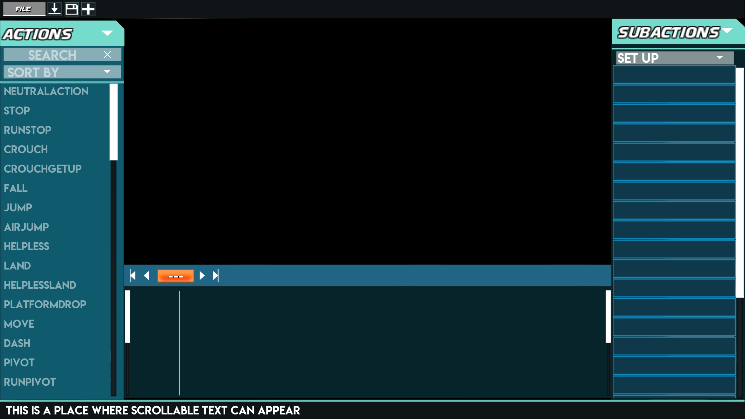
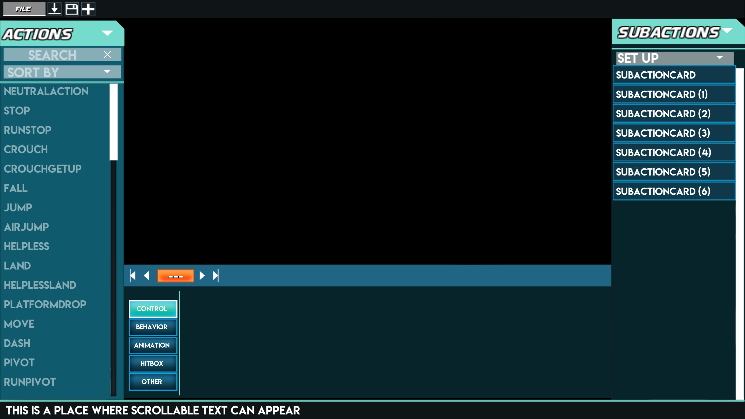
Added property drawers for SubactionData

diff --git a/Assets/Engine/subactions/newSubaction/SubactionData.cs b/Assets/Engine/subactions/newSubaction/SubactionData.cs
@@ -2,13 +2,19 @@
 using System.Collections.Generic;
 using UnityEngine;
 
-[System.Serializable]
+[CreateAssetMenu(fileName="SubactionData",menuName="Subactions")]
 public class SubactionData : ScriptableObject {
     public string SubactionName;
-    public SerializableDictionary<string, SubactionVarData> arguments;
+    public SubVarDict arguments;
 
     public override string ToString()
     {
         return SubactionName;
     }
 }
+
+/// <summary>
+/// This derivation is necessary for the Serializable Dictionary to drawn in inspector
+/// </summary>
+[System.Serializable]
+public class SubVarDict : SerializableDictionary<string, SubactionVarData>{ }

diff --git a/Assets/Menu/NewLegacyEditor/SubactionCard.cs b/Assets/Menu/NewLegacyEditor/SubactionCard.cs
@@ -16,7 +16,7 @@ public class SubactionCard : MonoBehaviour {
 	void Start () {
         SubactionData sub = ScriptableObject.CreateInstance<SubactionData>();
         sub.SubactionName = gameObject.name;
-        sub.arguments = new SerializableDictionary<string, SubactionVarData>();
+        sub.arguments = new SubVarDict();
         sub.arguments.Add("Argument 1", new SubactionVarData("Argument 1", "Fighter", "String", "Foo", true));
         SetSubaction(sub);
 	}

diff --git a/Assets/Editor/TussleSerializableDictionaryPropertyDrawer.cs b/Assets/Editor/TussleSerializableDictionaryPropertyDrawer.cs
@@ -1,0 +1,11 @@
+using System.Collections;
+using System.Collections.Generic;
+using UnityEditor;
+
+/// <summary>
+/// This class is here to derive the SerializableDictionaryPropertyDrawer class
+/// for various other serializable dictionaries
+/// </summary>
+
+[CustomPropertyDrawer(typeof(SubVarDict))]
+public class TussleSerializableDictionaryPropertyDrawer : SerializableDictionaryPropertyDrawer {}

diff --git a/Assets/Engine/SerializedClasses/SubactionVarData.cs b/Assets/Engine/SerializedClasses/SubactionVarData.cs
@@ -1,6 +1,7 @@
 using System.Collections;
 using System.Collections.Generic;
 using UnityEngine;
+
 [System.Serializable]
 public class SubactionVarData
 {
